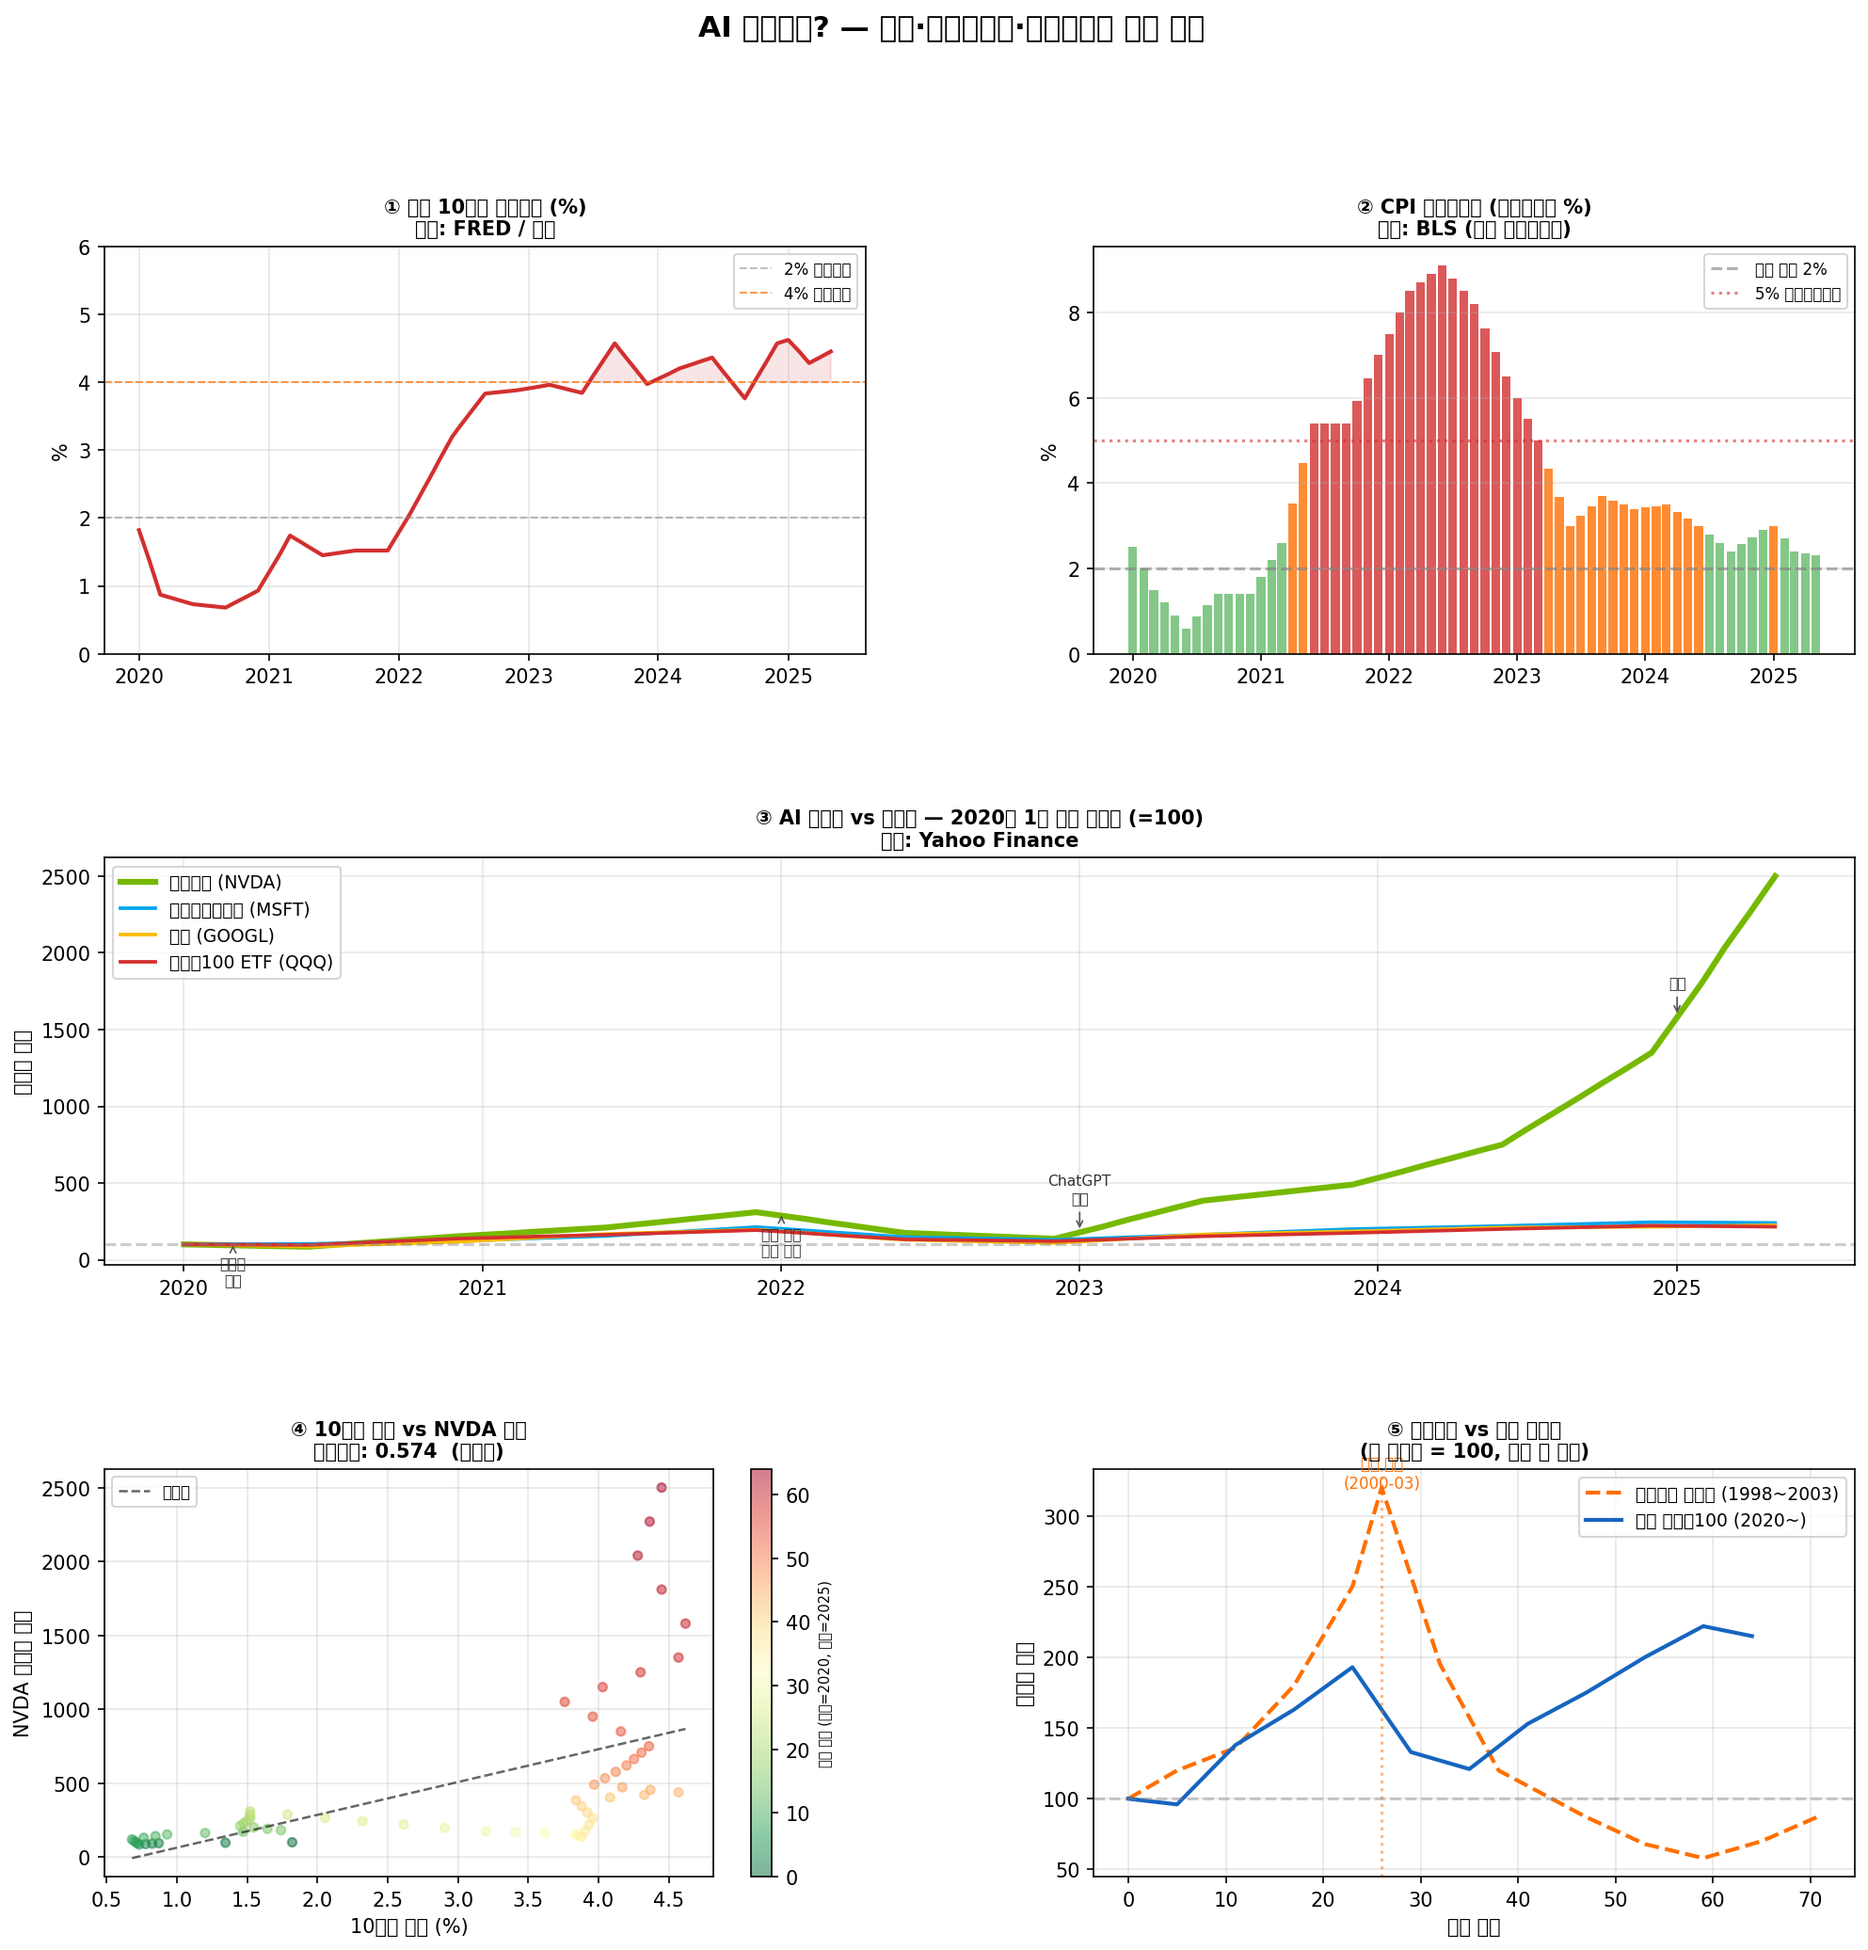
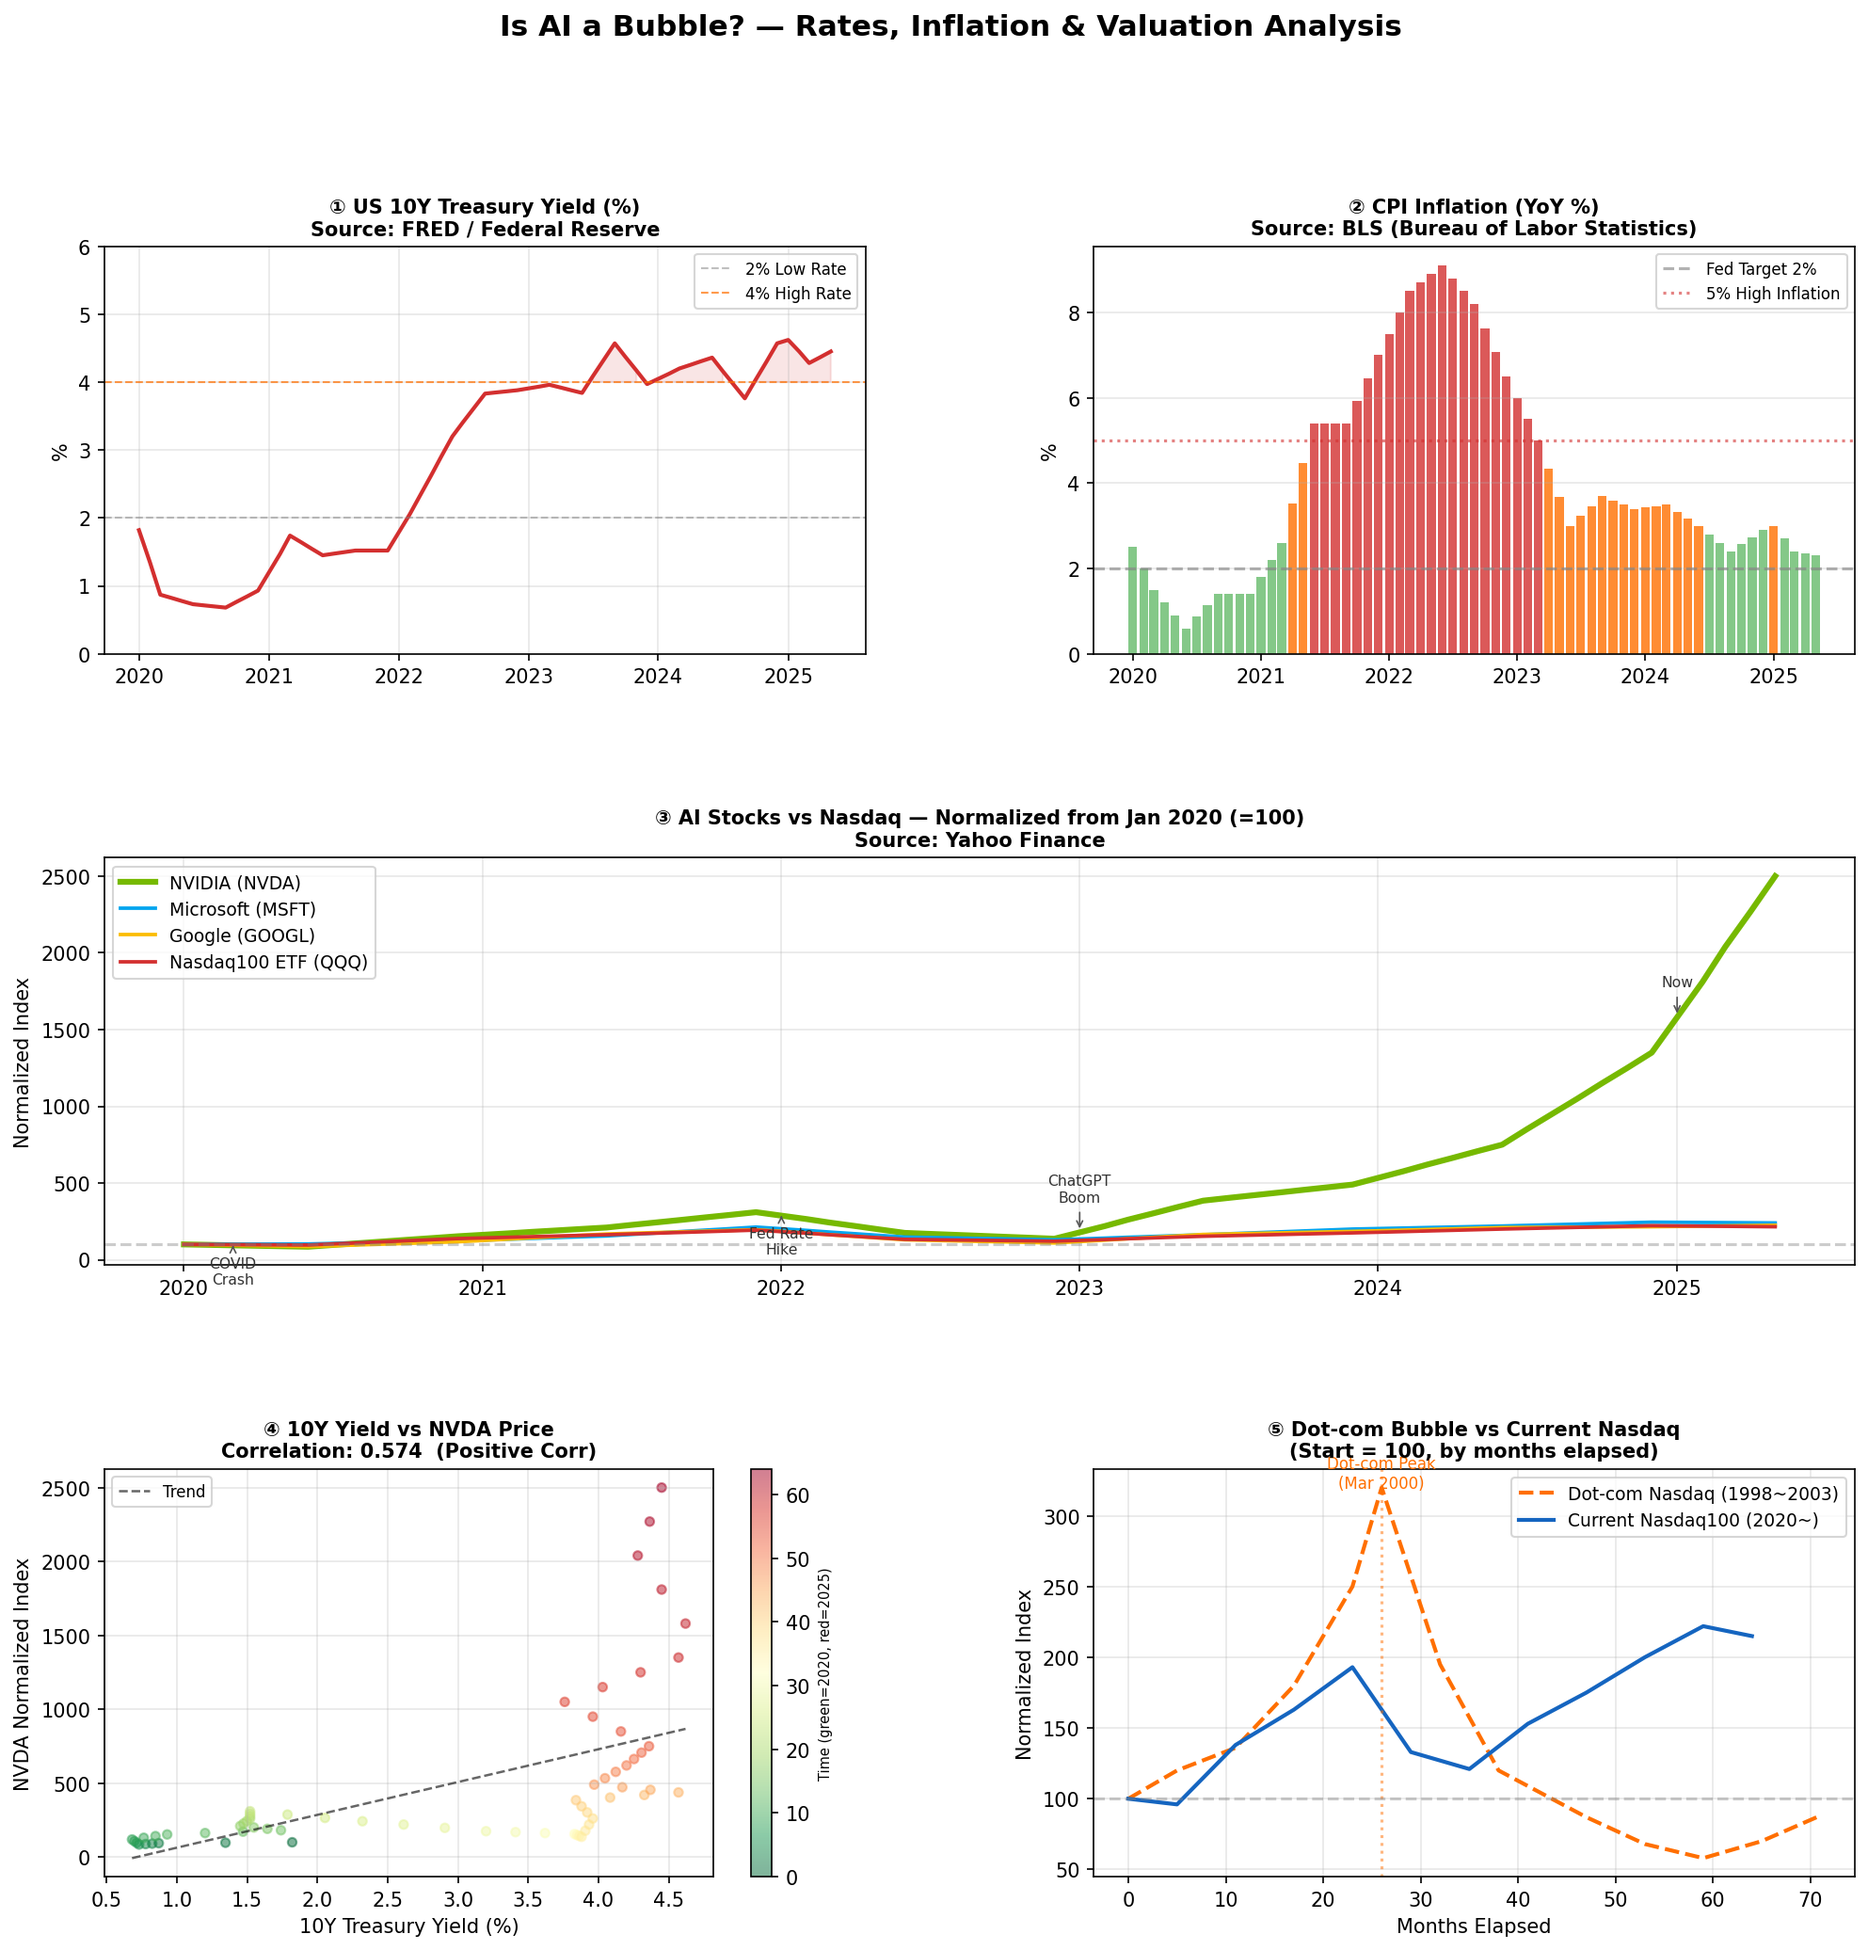
Fix chart labels: replace Korean text with English
차트 글자 깨짐 문제 수정 — 모든 한글 레이블을 영어로 변경

diff --git a/ai_bubble_analysis/ai_bubble_analysis.py b/ai_bubble_analysis/ai_bubble_analysis.py
@@ -84,18 +84,18 @@ dotcom = interpolate_monthly(dotcom_milestones)
 
 # ── 그림 그리기 ────────────────────────────────────────────────────────────
 fig = plt.figure(figsize=(16, 15))
-fig.suptitle("AI 버블인가? — 금리·인플레이션·밸류에이션 복합 분석",
+fig.suptitle("Is AI a Bubble? — Rates, Inflation & Valuation Analysis",
              fontsize=15, fontweight="bold", y=0.99)
 gs = gridspec.GridSpec(3, 2, figure=fig, hspace=0.5, wspace=0.3)
 
 # ─ ① 10년물 국채금리 ──────────────────────────────────────────────────────
 ax1 = fig.add_subplot(gs[0, 0])
 ax1.plot(tnx.index, tnx.values, color="#d32f2f", linewidth=2)
-ax1.axhline(2.0, color="gray",   linestyle="--", alpha=0.5, linewidth=1, label="2% 저금리선")
-ax1.axhline(4.0, color="#ff6f00", linestyle="--", alpha=0.7, linewidth=1, label="4% 고금리선")
+ax1.axhline(2.0, color="gray",   linestyle="--", alpha=0.5, linewidth=1, label="2% Low Rate")
+ax1.axhline(4.0, color="#ff6f00", linestyle="--", alpha=0.7, linewidth=1, label="4% High Rate")
 ax1.fill_between(tnx.index, tnx.values, 4.0,
                   where=(tnx.values >= 4.0), alpha=0.12, color="#d32f2f")
-ax1.set_title("① 미국 10년물 국채금리 (%)\n출처: FRED / 연준", fontweight="bold", fontsize=10)
+ax1.set_title("① US 10Y Treasury Yield (%)\nSource: FRED / Federal Reserve", fontweight="bold", fontsize=10)
 ax1.set_ylabel("%")
 ax1.legend(fontsize=8)
 ax1.xaxis.set_major_formatter(mdates.DateFormatter("%Y"))
@@ -107,9 +107,9 @@ ax2 = fig.add_subplot(gs[0, 1])
 ax2.bar(cpi.index, cpi.values, width=25,
         color=["#d32f2f" if v >= 5 else "#ff6f00" if v >= 3 else "#66bb6a"
                for v in cpi.values], alpha=0.8)
-ax2.axhline(2.0, color="gray", linestyle="--", alpha=0.6, linewidth=1.5, label="연준 목표 2%")
-ax2.axhline(5.0, color="#d32f2f", linestyle=":", alpha=0.6, linewidth=1.5, label="5% 고인플레이션")
-ax2.set_title("② CPI 인플레이션 (전년동월비 %)\n출처: BLS (미국 노동통계국)", fontweight="bold", fontsize=10)
+ax2.axhline(2.0, color="gray", linestyle="--", alpha=0.6, linewidth=1.5, label="Fed Target 2%")
+ax2.axhline(5.0, color="#d32f2f", linestyle=":", alpha=0.6, linewidth=1.5, label="5% High Inflation")
+ax2.set_title("② CPI Inflation (YoY %)\nSource: BLS (Bureau of Labor Statistics)", fontweight="bold", fontsize=10)
 ax2.set_ylabel("%")
 ax2.legend(fontsize=8)
 ax2.xaxis.set_major_formatter(mdates.DateFormatter("%Y"))
@@ -118,20 +118,20 @@ ax2.grid(alpha=0.3, axis="y")
 # ─ ③ AI 대표주 vs 나스닥 ─────────────────────────────────────────────────
 ax3 = fig.add_subplot(gs[1, :])
 style = {
-    "NVDA":  ("#76b900", 3.0, "엔비디아 (NVDA)"),
-    "MSFT":  ("#00a4ef", 1.8, "마이크로소프트 (MSFT)"),
-    "GOOGL": ("#fbbc04", 1.8, "구글 (GOOGL)"),
-    "QQQ":   ("#d32f2f", 1.8, "나스닥100 ETF (QQQ)"),
+    "NVDA":  ("#76b900", 3.0, "NVIDIA (NVDA)"),
+    "MSFT":  ("#00a4ef", 1.8, "Microsoft (MSFT)"),
+    "GOOGL": ("#fbbc04", 1.8, "Google (GOOGL)"),
+    "QQQ":   ("#d32f2f", 1.8, "Nasdaq100 ETF (QQQ)"),
 }
 for ticker, (color, lw, label) in style.items():
     ax3.plot(prices.index, prices[ticker], color=color, linewidth=lw, label=label)
 
 # 주요 이벤트 마킹
 events = {
-    "2020-03": ("코로나\n쇼크",    "down"),
-    "2022-01": ("연준 금리\n인상 시작", "down"),
-    "2023-01": ("ChatGPT\n열풍",   "up"),
-    "2025-01": ("현재",           "up"),
+    "2020-03": ("COVID\nCrash",      "down"),
+    "2022-01": ("Fed Rate\nHike",    "down"),
+    "2023-01": ("ChatGPT\nBoom",     "up"),
+    "2025-01": ("Now",               "up"),
 }
 for date, (label, direction) in events.items():
     x = pd.to_datetime(date)
@@ -143,9 +143,9 @@ for date, (label, direction) in events.items():
                      arrowprops=dict(arrowstyle="->", color="#555555", lw=0.8))
 
 ax3.axhline(100, color="gray", linestyle="--", alpha=0.4)
-ax3.set_title("③ AI 대표주 vs 나스닥 — 2020년 1월 기준 정규화 (=100)\n출처: Yahoo Finance",
+ax3.set_title("③ AI Stocks vs Nasdaq — Normalized from Jan 2020 (=100)\nSource: Yahoo Finance",
               fontweight="bold", fontsize=10)
-ax3.set_ylabel("정규화 지수")
+ax3.set_ylabel("Normalized Index")
 ax3.legend(fontsize=9, loc="upper left")
 ax3.xaxis.set_major_formatter(mdates.DateFormatter("%Y"))
 ax3.grid(alpha=0.3)
@@ -157,19 +157,20 @@ y_vals = prices["NVDA"].values
 colors_scatter = np.arange(len(x_vals))
 sc = ax4.scatter(x_vals, y_vals, c=colors_scatter, cmap="RdYlGn_r", alpha=0.5, s=20)
 cbar = plt.colorbar(sc, ax=ax4)
-cbar.set_label("시간 흐름 (초록=2020, 빨강=2025)", fontsize=7)
+cbar.set_label("Time (green=2020, red=2025)", fontsize=7)
 
 # 선형회귀선
 mask = ~(np.isnan(x_vals) | np.isnan(y_vals))
 if mask.sum() > 2:
     m, b = np.polyfit(x_vals[mask], y_vals[mask], 1)
     x_line = np.linspace(x_vals[mask].min(), x_vals[mask].max(), 100)
-    ax4.plot(x_line, m * x_line + b, "k--", linewidth=1.2, alpha=0.6, label="추세선")
+    ax4.plot(x_line, m * x_line + b, "k--", linewidth=1.2, alpha=0.6, label="Trend")
     corr = np.corrcoef(x_vals[mask], y_vals[mask])[0, 1]
-    ax4.set_title(f"④ 10년물 금리 vs NVDA 주가\n상관계수: {corr:.3f}  ({'역상관 — 디커플링!' if corr < -0.3 else '양상관' if corr > 0.3 else '무상관'})",
+    signal = "Decoupling!" if corr < -0.3 else "Positive Corr" if corr > 0.3 else "No Corr"
+    ax4.set_title(f"④ 10Y Yield vs NVDA Price\nCorrelation: {corr:.3f}  ({signal})",
                   fontweight="bold", fontsize=10)
-ax4.set_xlabel("10년물 금리 (%)")
-ax4.set_ylabel("NVDA 정규화 지수")
+ax4.set_xlabel("10Y Treasury Yield (%)")
+ax4.set_ylabel("NVDA Normalized Index")
 ax4.legend(fontsize=8)
 ax4.grid(alpha=0.3)
 
@@ -179,21 +180,20 @@ qqq_norm = prices["QQQ"].reset_index(drop=True)
 dotcom_norm = dotcom.reset_index(drop=True)
 
 ax5.plot(dotcom_norm.index, dotcom_norm.values, color="#ff6f00",
-         linewidth=2, label="닷컴버블 나스닥 (1998~2003)", linestyle="--")
+         linewidth=2, label="Dot-com Nasdaq (1998~2003)", linestyle="--")
 ax5.plot(qqq_norm.index[:len(dotcom_norm)], qqq_norm.values[:len(dotcom_norm)],
-         color="#1565c0", linewidth=2, label=f"현재 나스닥100 (2020~)")
+         color="#1565c0", linewidth=2, label="Current Nasdaq100 (2020~)")
 
-# 닷컴 고점 표시
 peak_idx = int(dotcom_norm.idxmax())
 ax5.axvline(peak_idx, color="#ff6f00", linestyle=":", alpha=0.5)
-ax5.annotate("닷컴 고점\n(2000-03)", xy=(peak_idx, dotcom_norm.max()),
+ax5.annotate("Dot-com Peak\n(Mar 2000)", xy=(peak_idx, dotcom_norm.max()),
              ha="center", fontsize=8, color="#ff6f00")
 
 ax5.axhline(100, color="gray", linestyle="--", alpha=0.4)
-ax5.set_title("⑤ 닷컴버블 vs 현재 나스닥\n(각 시작점 = 100, 경과 월 기준)",
+ax5.set_title("⑤ Dot-com Bubble vs Current Nasdaq\n(Start = 100, by months elapsed)",
               fontweight="bold", fontsize=10)
-ax5.set_xlabel("경과 월수")
-ax5.set_ylabel("정규화 지수")
+ax5.set_xlabel("Months Elapsed")
+ax5.set_ylabel("Normalized Index")
 ax5.legend(fontsize=9)
 ax5.grid(alpha=0.3)
 
